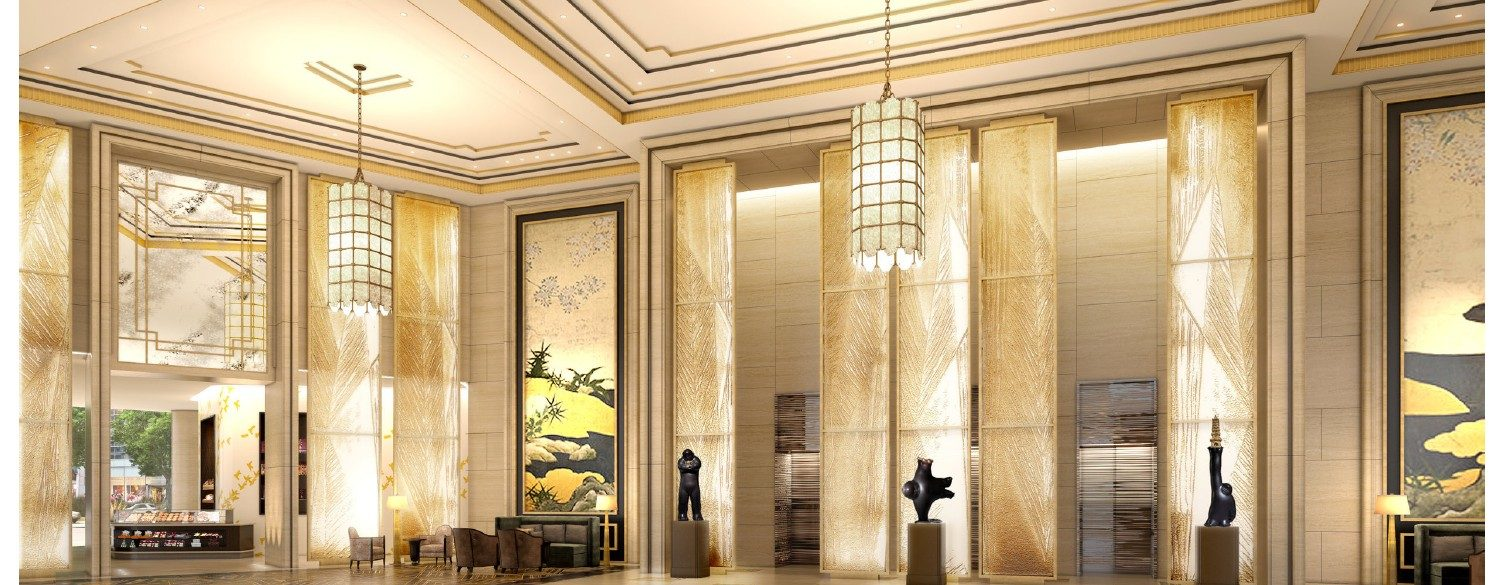
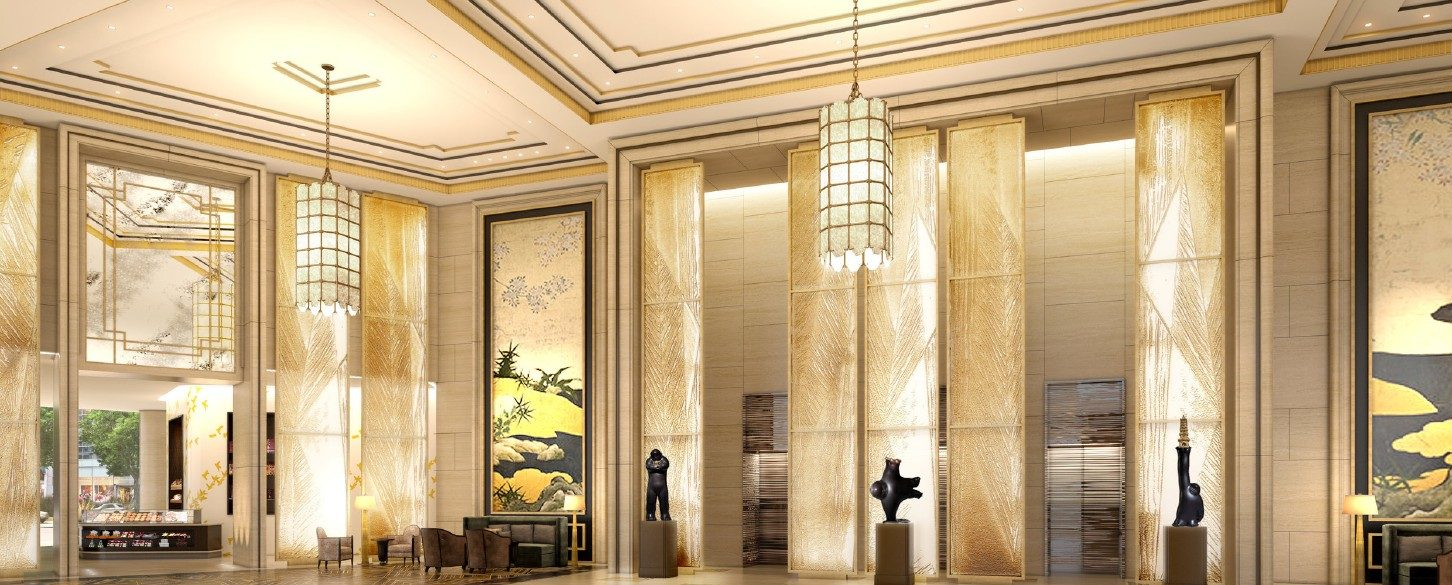
Project heroes show the photograph whole; Waldorf lobby side bars cropped; English compact Write from 980px
The art director's second look: project heroes at their own shape, at most 70vh
(replacing the 56vh slot); a lossless crop of waldorf-lobby.jpg removes its white
side bars; the English compact header label starts at 980px. No copy changed.

diff --git a/hotels/index.html b/hotels/index.html
@@ -507,7 +507,7 @@
 <section class="section wrap" id="proof">
   <div class="head reveal"><div class="lead"><p class="eyebrow"><span data-l="en" lang="en">Hospitality</span><span data-l="he" lang="he" dir="rtl">אירוח</span></p><h2 class="serif"><span data-l="en" lang="en">Where can you see my hospitality work?</span><span data-l="he" lang="he" dir="rtl">איפה אפשר לראות את העבודה שלי בתחום האירוח?</span></h2><p class="muted" style="font-size: 17px; max-width: 760px;"><span data-l="en" lang="en">Concepts and collections built while collaborating with luxury hospitality leaders.</span><span data-l="he" lang="he" dir="rtl">קונספטים ואוספים שנבנו בשיתוף פעולה עם מובילים בתחום האירוח היוקרתי.</span></p></div></div>
   <div class="grid3">
-    <a class="card reveal" href="/projects/hotels-and-hospitality-collections/"><div class="ph"><img src="/images/projects/waldorf-lobby.jpg" alt="Lobby of the Waldorf Astoria Chengdu with sculptural artworks" data-alt-he="הלובי של Waldorf Astoria Chengdu עם עבודות פיסוליות" width="1500" height="585" loading="lazy" decoding="async"></div><h3 class="serif"><span data-l="en" lang="en">Waldorf Astoria Chengdu</span><span data-l="he" lang="he" dir="rtl">וולדורף אסטוריה צ&#x27;נגדו</span></h3><p class="muted"><span data-l="en" lang="en">China. Sculptural works for the lobby.</span><span data-l="he" lang="he" dir="rtl">סין. עבודות פיסוליות ללובי.</span></p></a>
+    <a class="card reveal" href="/projects/hotels-and-hospitality-collections/"><div class="ph"><img src="/images/projects/waldorf-lobby.jpg" alt="Lobby of the Waldorf Astoria Chengdu with sculptural artworks" data-alt-he="הלובי של Waldorf Astoria Chengdu עם עבודות פיסוליות" width="1452" height="585" loading="lazy" decoding="async"></div><h3 class="serif"><span data-l="en" lang="en">Waldorf Astoria Chengdu</span><span data-l="he" lang="he" dir="rtl">וולדורף אסטוריה צ&#x27;נגדו</span></h3><p class="muted"><span data-l="en" lang="en">China. Sculptural works for the lobby.</span><span data-l="he" lang="he" dir="rtl">סין. עבודות פיסוליות ללובי.</span></p></a>
     <a class="card reveal" href="/projects/hotels-and-hospitality-collections/"><div class="ph"><img src="/images/projects/stregis-bar.jpg" alt="The bar at the St. Regis Amman with its horse mosaic" data-alt-he="הבר ב-St. Regis Amman עם פסיפס הסוסים" width="1456" height="877" loading="lazy" decoding="async"></div><h3 class="serif"><span data-l="en" lang="en">St. Regis Amman</span><span data-l="he" lang="he" dir="rtl">סנט רג&#x27;יס עמאן</span></h3><p class="muted"><span data-l="en" lang="en">Jordan. A bar with a horse mosaic, the guest rooms and the residences.</span><span data-l="he" lang="he" dir="rtl">ירדן. בר עם פסיפס סוסים, חדרי האורחים ודירות המגורים.</span></p></a>
     <a class="card reveal" href="/projects/hotels-and-hospitality-collections/"><div class="ph"><img src="/images/projects/hal-restaurant.jpg" alt="Restaurant on a Holland America Line ship with artwork on the walls" data-alt-he="מסעדה באוניית Holland America Line עם יצירות אמנות על הקירות" width="1230" height="1167" loading="lazy" decoding="async"></div><h3 class="serif"><span data-l="en" lang="en">Holland America Line</span><span data-l="he" lang="he" dir="rtl">הולנד אמריקה ליין</span></h3><p class="muted"><span data-l="en" lang="en">Restaurant and stateroom art for its ships.</span><span data-l="he" lang="he" dir="rtl">אמנות למסעדות ולתאי הנוסעים באוניות שלה.</span></p></a>
   </div>

diff --git a/css/theme.css b/css/theme.css
@@ -542,7 +542,7 @@
     .nav .nav-write .wfull { position: absolute; width: 1px; height: 1px; overflow: hidden; clip: rect(0 0 0 0); clip-path: inset(50%); white-space: nowrap; }
     .nav .nav-write .wshort { display: inline; }
   }
-  @media (min-width: 901px) and (max-width: 919px) { body.lang-en .nav .nav-write { display: none; } }
+  @media (min-width: 901px) and (max-width: 979px) { body.lang-en .nav .nav-write { display: none; } }  /* English shows the compact label from 980px, clear of the wordmark; Hebrew from 901px */
   /* Drawn as the bar's one outlined control (the art director's gate, 2026-11-15): a hairline box, brighter on hover, from
      1040px, where the boxed label still leaves the bar one line in both languages (below that the compact label stays
      plain). line-height 1 keeps the box inside the bar's height. */
@@ -1067,11 +1067,10 @@
   .phero:not(.type) > .scrim { display: none; }
   .phero:not(.type) .title { position: static; padding: 40px 0 0; }
   @media (max-width: 900px) { .phero:not(.type) { padding-top: calc(88px + env(safe-area-inset-top, 0px)); } }
-  /* Project heroes stop at 56vh, so the h1 starts on the first screen at 1440x900; the hubs and the Art Radar archive
-     (.archive) keep 62vh (the art director's gate, 2026-11-15). */
-  .phero:not(.type):not(.hub):not(.archive) > img { max-height: 56vh; }
-  /* The storks triptych is a panorama of three panels: on a phone it is shown whole, not cut to 16:9 (same gate). */
-  @media (max-width: 900px) { .phero:not(.type) > img[src$="/storks-triptych.jpg"] { aspect-ratio: auto; height: auto; max-height: none; object-fit: contain; } }
+  /* Project heroes show the photograph whole at its own shape, at most 70vh tall, from the left edge of the column (the art
+     director's second look, 2026-11-15: a fixed 16:9 slot cut people and works). The hubs and the Art Radar archive
+     (.archive) keep the 16:9, 62vh cover above. */
+  .phero:not(.type):not(.hub):not(.archive) > img { aspect-ratio: auto; width: auto; max-width: 100%; height: auto; max-height: 70vh; object-fit: contain; }
   /* IRIS-6: one reading measure, 680px (about 70 characters of the 18px body), for the text of the reading column on
      every article, project, guide, radar post and /about/ row; figures, diagrams and tables keep their width. */
   :root { --measure: 680px; }

diff --git a/AGENTS.md b/AGENTS.md
@@ -147,6 +147,7 @@ Report failures honestly. If a check fails after the cache window, say so; do no
 
 ## 7. Work Log (append-only, newest first, one line per change)
 
+- 2026-11-15 (ET) | Claude (Theo builder, branch audit-fixes-2026-11-15) | The art director's second look: (1) project page heroes (.phero, not hub, archive or type) show the photograph whole at its own shape: aspect-ratio auto, width auto, max-width 100%, height auto, max-height 70vh, object-fit contain, from the column's left edge; this replaces the 56vh rule and the triptych-only phone rule, which it makes redundant (the triptych shows whole at 390: 350 by 147). Hubs and the Art Radar archive keep the 16:9, 62vh cover. Checked on all 15 project pages at 1440x900 (every image at its natural ratio, h1 starting at 718 to 806 px) and four at 390x844. (2) images/projects/waldorf-lobby.jpg: the white side bars cut off, lossless (jpegtran -perfect -crop 1452x585+32+0 of the origin/main file, the 16 px block grid; the bars ran to x 19 and from x 1486); which image leads each page and every caption unchanged; sizes are read from the file at build time. waldorf-lobby-hero.jpg (the /projects/ hub crop) has no bars and is unchanged. (3) English shows the compact Write in the desktop header from 980px (was 920); Hebrew still from 901px. No copy changed. | Draft PR
 - 2026-11-15 (ET) | Claude (Theo builder, branch audit-fixes-2026-11-15) | The art director's gate on phase 1, her FIX specs. Header (css/theme.css): the full Write to Stav label only from 1100px; the compact Write from 920px (English) and 901px (Hebrew) to 1099px; from 1040px the item is a hairline box (1px rgba(242,240,236,0.36), padding 8px 14px, 6px more space before it, ink border on hover and focus, line-height 1 so the bar stays 78px), plain below 1040 where the box does not fit the one-line bar; the phone-bar Write stays plain (the box adds 36px and the bar has 12.5 to 17 px to spare where it ships). Phone menu: the first item is the page's ghost button (sans 13px uppercase, 0.08em, 1px #F2F0EC border, padding 18px 30px, 28px to About), English and Hebrew. Heroes: project photo heroes stop at 56vh (hubs and the Art Radar archive, now class archive in build-post-pages.py, keep 62vh); on screens up to 900px the storks triptych hero is shown whole (object-fit contain, natural ratio). Images: images/projects/storks-triptych.jpg recut from the original on origin/main off the top instead of the right, lossless (jpegtran -perfect -crop 1600x673+0+48): the close button gone, the three panels at their full width, all three birds whole (the phase 1 right-hand crop is discarded); the Art Radar post image 2026-10-17 ...-foot-match.jpg (the /radar/ hero) cropped to the painting, x 114, y 86, 1472 by 964 (her box less one pale top row), re-encoded once at quality 95 (no lossless box clears the pale bands without cutting paint); it also shows that way in its post. | Draft PR
 - 2026-11-15 (ET) | Claude (Theo builder, branch audit-fixes-2026-11-15) | /art-curator-new-jersey/ H2 8, the Curator's S-j3 applied to the heading only: What an art consultant costs in New Jersey / כמה עולה יועצת אמנות בניו ג'רזי, in body_en and body_he. FAQ 5's question (How much does an art curator cost in New Jersey? and its Hebrew twin, which shares the old heading's words) stays "art curator" by the SEO Lead's ruling, byte-identical to origin/main. The section under the heading is unchanged. | Draft PR
 - 2026-11-15 (ET) | Claude (Theo builder, branch audit-fixes-2026-11-15) | The compact header label (the Curator's S-g): Write / כתבו shown, the full Write to Stav / כתבו לסתיו kept as the accessible name (visually hidden, as nav_call() splits the number and Call). (1) The phone bar: site_chrome.nav_write_bar(), a data-write link with data-loc nav right after Call, shown from 370px in English and from 400px in Hebrew up to 900px, where every two controls keep at least 8 px between them and each control's 44 px hit area is whole (its ::after grows toward Call, so it never meets the HE/EN area). Below that it stays out of the bar and the menu item carries it. Measured on the cost page: English 390 and 375 ship; 360 (2.5 px from the wordmark) and 320 (overflow) do not; Hebrew does not ship at 390 (7 px), 375, 360 or 320. (2) Desktop 901 to 1039px: the bar item shows the compact label, from 901 in Hebrew and from 920 in English (at 901 to 919 the English bar has no room: it wraps at 901); one line, no overlap, link gaps 13 to 20 px; from 1040 the full label as before. Checked with gtag stubbed on /, /hotels/ and the cost page at 390 and 980: the pop-up opens, write_open link_location nav, accessible name Write to Stav (Hebrew כתבו לסתיו). | Draft PR
